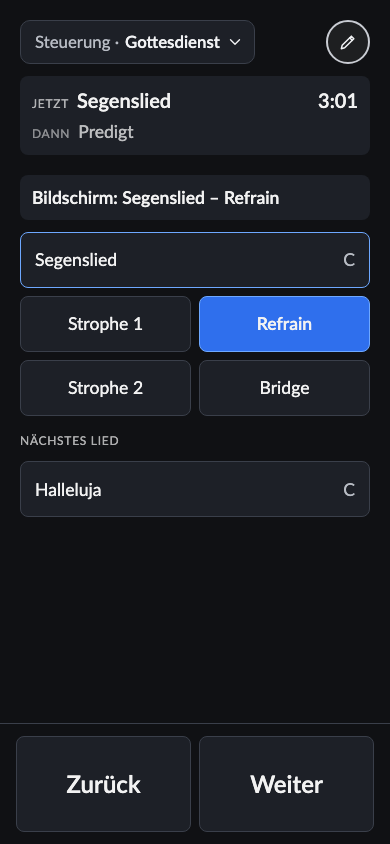
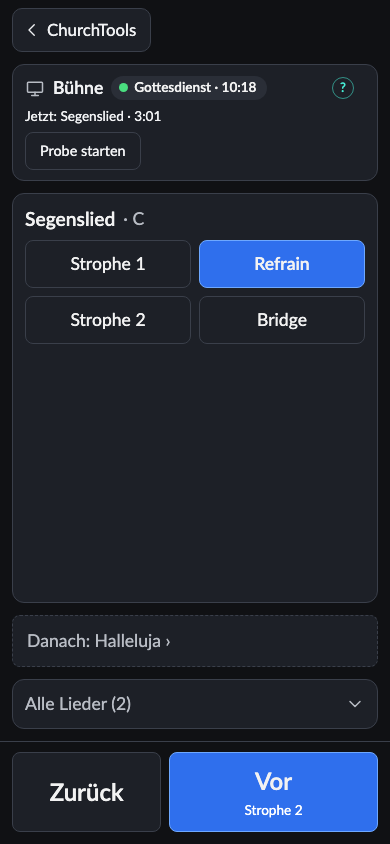
Handyseite: Aufräumen – Doku, Bild der Anleitung, ungenutzter Text (Punkt 135 E)

diff --git a/e2e/docs-screenshots.spec.ts b/e2e/docs-screenshots.spec.ts
@@ -671,7 +671,7 @@ test.describe('on a phone', () => {
         await shoot(page, 'handy');
     });
 
-    // The phone page of the musicians (Plan.md 121 E2): a made-up service with two songs, the running point a song, one part tapped.
+    // The phone page of the musicians (Plan.md 121 E2, 135): a made-up service with two songs at a released screen, the running point a song, one part tapped.
     test('the control page of the musicians', async ({ page, baseURL }) => {
         origin = new URL(baseURL!).origin;
         await fakeChurch(page);
@@ -714,8 +714,25 @@ test.describe('on a phone', () => {
         await page.route(/\?q=churchservice/, (route) =>
             route.fulfill({ json: { status: 'success', data: { pos_id: '2', switchdate: at(-2), addseconds: '0', currentTime: DOC_NOW.getTime() } } }),
         );
+        // A screen released for rehearsals that shows the songsheet of this service (Plan.md 135): the monitor card at the top.
+        await page.goto('./'); // seeds the demo store
+        await page.evaluate((now) => {
+            const key = 'infoscreen-designer.demo-store';
+            const state = JSON.parse(localStorage.getItem(key)!) as { nextId: number; categories: { id: number; shorty: string; name: string }[]; values: [number, { id: number; value: string }[]][] };
+            const list = (shorty: string, name: string): { id: number; value: string }[] => {
+                let category = state.categories.find((c) => c.shorty === shorty);
+                if (!category) state.categories.push((category = { id: state.nextId++, shorty, name }));
+                let entry = state.values.find(([id]) => id === category!.id);
+                if (!entry) state.values.push((entry = [category.id, []]));
+                return entry[1];
+            };
+            const add = (target: { id: number; value: string }[], doc: unknown) => target.push({ id: state.nextId++, value: JSON.stringify(doc) });
+            add(list('steuerung', 'Steuerung'), { kind: 'rehearsalCatalog', screens: [{ id: 's1', name: 'Bühne' }], playlists: [{ id: 'p1', name: 'Probe' }], clickScreens: [], at: now });
+            add(list('status', 'Status'), { kind: 'position', screenId: 's1', playlistId: 'p2', playlistName: 'Gottesdienst', advance: 'time', songsheet: { source: 'agenda', eventId: 7 }, seq: 0, at: now });
+            localStorage.setItem(key, JSON.stringify(state));
+        }, DOC_NOW.toISOString());
         await page.goto('steuerung');
-        await expect(page.getByTestId('control-plan')).toContainText('Segenslied');
+        await expect(page.getByTestId('monitor-chip')).toContainText('Gottesdienst');
         const current = page.getByTestId('control-current');
         await current.getByRole('button', { name: 'Refrain' }).click();
         await expect(current.locator('.part.active')).toHaveText('Refrain');

diff --git a/src/i18n/designer.ts b/src/i18n/designer.ts
@@ -1686,7 +1686,6 @@ Damit er im Wiki nicht stört, lässt er sich in den Einstellungen des Designers
         rehearsalLoading: 'Lied wird geladen …',
         chooseSong: 'Lied wählen',
         endSong: 'Lied beenden',
-        screenNoRelease: 'Für Proben ist noch kein Bildschirm freigegeben. Ein Administrator gibt ihn in der Einrichtung unter „Musiker“ frei.',
         screenNoPlaylist: 'Für Proben ist noch keine Probenpräsentation freigegeben. Ein Administrator gibt sie in der Einrichtung unter „Musiker“ frei.',
         screenChoose: 'Bildschirm wählen',
         playlistChoose: 'Präsentation wählen',

diff --git a/Plan.md b/Plan.md
@@ -29,7 +29,7 @@ Ein ChurchTools Custom Module (CCM), mit dem angemeldete ChurchTools-Anwender In
 13. **Bedienelement „Angaben“, Rest** (Archiv Punkt 128, #296) – veröffentlicht mit `v0.66.0`, Issue geschlossen. Offen: Termine und Ablauf als zweiter Schritt, wenn sich das Bedienelement bewährt.
 14. **Inspektor: Trenner und angeheftete Abschnitte** (Punkt 133, #407) – Anregung von Bernhard; Variante gewählt am 2026-11-26: Trenner zwischen den Ebenen, „Folie“ bis „Präsentation“ eingeklappt am unteren Rand angeheftet, am Handy nicht. Bauplan offen.
 15. **Ladeanzeige beim Setzen der Rechte** (Punkt 134) – gebaut am 2026-11-26, kommt mit dem nächsten Release.
-16. **Handyseite vom Monitor aus** (Punkt 135) – Rückmeldung beim Test am 2026-11-26; Richtung entschieden, Bauplan A–E steht. **Vorgezogen: kommt vor dem Release der Klicksteuerung.**
+16. **Handyseite vom Monitor aus** (Punkt 135) – Rückmeldung beim Test am 2026-11-26; Richtung entschieden, **A bis E gebaut am 2026-11-27** (unveröffentlicht; zwei Handytests eingearbeitet). Kommt mit dem Release der Klicksteuerung (Punkt 124) und der Ladeanzeige (Punkt 134); vorher am Handy die Wartemeldung und das Such-Blatt mit Tastatur prüfen, am Android-Gerät, dass nichts von ChurchTools über der Seite liegt.
 
 **Kleine Reste, kein Auftrag, bis jemand sie wählt** *(durchgesehen mit dem Nutzer am 2026-10-10: später; „Rechte aktualisieren“ echt ausprobiert, ohne Auffälligkeiten)*:
 
@@ -585,7 +585,7 @@ Hier stehen nur Punkte, die noch nicht veröffentlicht sind, mit vollem Text. Di
       - **D – Probe als Aktion** (**gebaut am 2026-11-27**, unveröffentlicht. Festgelegt: **Laufende Probe in der Karte:** Chip „Probe bis 10:52“, „gestartet von <Name>“, der Satz „Ein Gottesdienst laut Zeitplan beendet die Probe.“ und die Knöpfe „+1 Std“, „+2 Std“, „Beenden“; kein zweiter Kasten, `ControlScreen` fällt weg, die Karte liest die Probe aus dem Stand des Monitors, nicht mehr aus den Überschreibungen. **„+n Std“ schiebt das Ende, das dasteht, um n Stunden** (liegt es in der Vergangenheit: ab jetzt), gekappt auf 4 Stunden ab jetzt (Punkt 125); geschrieben wird `at` = jetzt. **Der eigene Schreibvorgang gilt über dem Stand des Monitors,** bis dieser ihn meldet (Ende mindestens so spät) oder eine Minute um ist – der Player liest nur alle 20 Sekunden (`shownRehearsal`, `src/views/rehearsal-override.ts`, Schreiben in `useRehearsalControl`). **„Probe starten“** (nur freigegebene Monitore, ohne laufende Probe) öffnet das Blatt `ControlRehearsalSheet` über dem gemeinsamen `ControlSheet` (`role="dialog"`, `aria-modal`, „Abbrechen“, Tipp daneben, Escape; liegt fest über der Seite wie sie selbst, `z-index` 2100, ohne `Teleport`): Überschrift „Probe auf „<Monitor>““, Präsentation (bei einer schon gewählt), Dauer 1/2/3 Std. (2 vorgewählt), „Probe starten“; bei Fehler bleibt das Blatt offen. **Liedwahl in der Probe:** Liedkarte mit Titel und Tonart (1,2 rem, 600), rechts „Lied wählen“ (Lupe), Arrangements als Chips nur bei mehreren, „Lied beenden“ als kleiner Textknopf; die Suche ist ein Blatt `ControlSheet`; ein Fund schließt es. **Befund (3) mit gebaut:** Zeigt der Stand eine laufende Probe, aber weder ein Liedblatt der Probe noch eines des Gottesdienstes, sagt die Mitte „Der Bildschirm zeigt kein Probenblatt.“ (`rehearsalWithoutSheet`, aus dem gemeldeten Stand, nicht aus dem eigenen Schreibvorgang). **Befund (1) mit gebaut:** Öffnet ein Administrator „Musiker“, schreibt die Seite die Liste in `steuerung` neu, wenn Namen oder die Menge der Bildschirme und Präsentationen nicht mehr stimmen (`catalogOutdated`, `src/setup/rehearsal-catalog.ts`; einmal je Besuch, nur dann; Vergleich mit dem gelesenen Katalog, Grundlage ist die gespeicherte Freigabe, nicht der Entwurf); eine freigegebene Präsentation ohne Probenblatt bekommt die Warnung „„Ablauf“ ist freigegeben, hat aber kein Probenblatt.“ und fällt aus der Liste (neu: `listPlaylistsBySheet`). Tests: Komponententests für Blatt, Karte (keine doppelten Zeilen, kein „Schwarz“ beim Lied, Teile sichtbar), reine Funktionen; kein e2e mit Probe, der Demo-Speicher hat keinen Katalog – `e2e/mode-switch.spec.ts` prüft weiter, dass die Seite in drei Größen nichts scrollt. Offen: am Handy prüfen, dass im Zustand „Probe läuft“ auch bei 375 × 667 alles ohne Scrollen passt – die Rechnung geht auf, gemessen ist es nicht.): Blatt „Probe starten“, „+1/+2 Std“ und „Beenden“ in der Karte, „Lied wählen“/„Arrangement“ als Blatt.
       - **Zweiter Handytest (Nutzer, 2026-11-27, iPhone 390 × 844, „Probe läuft“, Lied mit vier Teilen) – „Wir sind noch nicht ganz am Ziel“; umgesetzt am selben Tag, unveröffentlicht.** Befunde: (1) Die Teile waren abgeschnitten – die Liedkarte zeigte etwa anderthalb Reihen, der Rest rollte in einem kleinen Fenster; (2) die Monitor-Karte war fast die halbe Höhe; (3) der Liedkopf verschenkte Platz (Titel links, Tonart weit rechts, großer Knopf „Lupe + Lied wählen“); (4) „Letzter Teil …“ und „Lied beenden“ standen außerhalb der Karte und kosteten zwei Zeilen; (5) das ausgegraute „Vor“ blieb dunkelblau und wirkte halb aktiv. **Geändert – die Gewichte sind umgedreht, das Lied bekommt den Platz:** Die **Monitor-Karte** ist einzeilig (Name 1,1 rem links, der Chip dahinter und nie gekürzt, der Name kürzt mit Ellipse), darunter eine kleine Zeile; **Festlegung: Der Chip der Probe heißt nur „Probe“, das Ende steht in der Zeile („bis 11:23 · Tobias Nikola“)** – so steht es nicht doppelt da. Die beiden Hinweissätze sind aus der Karte: „Ein Gottesdienst laut Zeitplan beendet die Probe.“ steht im Blatt „Probe starten“; „Alle Probenmonitore/Liedblätter … folgen.“ steht hinter einem kleinen „i“ am Chip (Tipp blendet ein, zweiter Tipp aus). „+1 Std“, „+2 Std“, „Beenden“ sind flach (38 px, 0,9 rem) in einer Zeile. Der **Liedkopf** ist eine Zeile „Titel · Tonart“ mit der Lupe als Knopf 44 × 44 (`aria-label` „Lied wählen“); „Lied beenden“ steht als Textknopf unten im Such-Blatt; „Letzter Teil – anderes Lied über die Lupe.“ (im Gottesdienst „… nächstes Lied über „Danach“.“) steht klein **in** der Liedkarte unter den Teilen. **Die Liedkarte füllt den Rest der Mitte** (Spalte, Karte `flex: 1`, Teile-Liste darin `flex: 1; min-height: 0; overflow: auto`), ebenso die Liedkarte im Gottesdienst und die Folienliste; Teile- und Folienknöpfe 48 px statt 56. In der Leiste sind **deaktivierte Knöpfe grau** (Hintergrund wie die anderen, Text gedämpft), auch „Vor“. **Gemessen** (`e2e/control-phone.spec.ts`, Demo-Speicher mit Katalog, Probe und Lied, Song und Datei per `page.route`; Chromium und WebKit): Monitor-Karte 120 px, Leiste 103 px; Liedkarte 533 px auf 390 × 844 und 356 px auf 375 × 667; **acht Teile passen ohne Rollen** (390 × 844: 252 px Luft in der Karte, 375 × 667: 75 px), die Seite scrollt nicht, die Leiste liegt ganz im Fenster.
       - **Rückmeldung nach dem Tippen (Nutzer, 2026-11-27): „Nach dem Starten der Probe passiert am Handy erstmal nichts. Genauso beim Beenden“ – der Fernseher liest die Werte alle 20 s, bis er sich meldet, vergeht bis zu eine halbe Minute.** Geändert: Während das Schreiben läuft, steht „Wird gespeichert …“ (auf dem Startknopf im Blatt und in der Karte); danach steht in der Karte mit drehendem Ring, was der Bildschirm gleich tut – „Wechselt zur Probe …“, „Übernimmt die Zeit …“, „Zurück zum Zeitplan …“ –, bis er es meldet (`transferState` in `rehearsal-override.ts`); **Festlegung (Nutzer): kurz und ohne Zeitangabe, der Ring mit dem Hinweis reicht.** Meldet er sich eine Minute nicht: „Reagiert nicht – ist er an?“. Der Takt des Fernsehers bleibt (G16). Am selben Tag: Das „i“ am Chip ist jetzt das „?“ der Hilfe im Inspektor (`HelpButton`, türkis, rechtsbündig, gefüllt solange der Satz steht); vor dem Namen des Bildschirms steht ein TV-Symbol; das Such-Blatt folgt mit offener Tastatur dem sichtbaren Teil des Fensters (`visualViewport`) und sitzt auf der Tastatur, und hinter der Seite ist es dunkel statt weiß.
-      - **E – Aufräumen:** alte Texte und Wege entfernen, Doku (Funktionen, Einrichtung) und Bilder der Anleitung, e2e der Handyseite.
+      - **E – Aufräumen** (**gebaut am 2026-11-27**, unveröffentlicht): Der ungenutzte Text `screenNoRelease` ist entfernt; tote Dateien gab es keine (die alten Bereiche fielen mit C und D weg, die Unit-Tests prüfen, dass `control-area` und `control-screen` nicht mehr erscheinen). Doku: Funktionen nennt TV-Symbol, das „?“ und den Hinweis, solange der Bildschirm wechselt; „Beenden“ schaltet nicht mehr „sofort“ zurück, sondern beim nächsten Nachfragen des Bildschirms. Einrichtung: zurück in den Designer über „ChurchTools“ statt „Designer“, „Lied wählen“ über die Lupe, „Lied beenden“ im Such-Blatt. Das Bild `steuerung.png` zeigt die neue Seite: Monitor-Karte „Bühne“ mit dem Chip „Gottesdienst“, Liedkarte, „Danach“, „Alle Lieder“, Leiste (`e2e/docs-screenshots.spec.ts` legt dafür Liste und Stand in den Demo-Speicher). Die e2e der Handyseite stehen seit A und dem zweiten Handytest (`mode-switch`, `control-phone`).
 
 ### Verzeichnis der erledigten Punkte
 

diff --git a/docs/Funktionen.md b/docs/Funktionen.md
@@ -262,15 +262,17 @@ auf der Einstellungsseite „Musiker“ für die Klicksteuerung freigegeben sind
 
 **Vom Handy weiterschalten.** Die Handyseite „Steuerung“ nimmt den ganzen Bildschirm ein, auch über der Leiste von ChurchTools; „ChurchTools“ oben links führt zurück – in den Designer, wenn man von dort kam, sonst zur vorigen Seite von ChurchTools. Nichts muss gescrollt werden: Nur eine lange Liste von Teilen oder Folien rollt in ihrer Karte, die laufende bleibt sichtbar.
 
-Die Seite geht vom **Monitor** aus, nicht von einem Bereich. Ganz oben steht die **Monitor-Karte**, flach gehalten, damit das Lied den Platz bekommt: in einer Zeile der Name des Bildschirms und dahinter ein **Chip**, was gerade läuft, bei mehreren rechts **„Wechseln“** (die Seite merkt sich den letzten); darunter eine kleine Zeile. Wo es einen Satz dazu gibt, wer dem Lied folgt, steht am Chip ein kleines **„i“** – ein Tipp blendet den Satz ein, ein zweiter blendet ihn wieder aus:
+Die Seite geht vom **Monitor** aus, nicht von einem Bereich. Ganz oben steht die **Monitor-Karte**, flach gehalten, damit das Lied den Platz bekommt: in einer Zeile ein TV-Symbol, der Name des Bildschirms und dahinter ein **Chip**, was gerade läuft, bei mehreren rechts **„Wechseln“** (die Seite merkt sich den letzten); darunter eine kleine Zeile. Wo es einen Satz dazu gibt, wer dem Lied folgt, steht rechts in der Zeile das türkise **„?“** wie bei der Hilfe im Editor – ein Tipp blendet den Satz ein, ein zweiter blendet ihn wieder aus:
 
-- grün **„Gottesdienst · 10:30“** – der Bildschirm zeigt ein Liedblatt mit der Quelle „Ablauf“; darunter „Jetzt: Predigt · 3:12“, das „i“ sagt, dass alle Liedblätter dieses Gottesdienstes folgen;
-- gelb **„Probe“** – die Musiker haben den Bildschirm für eine Probe übernommen, darunter „bis 19:11 · Anna“ (Ende und Name, nicht doppelt im Chip); das „i“ sagt, dass alle Probenmonitore dem Lied folgen;
+- grün **„Gottesdienst · 10:30“** – der Bildschirm zeigt ein Liedblatt mit der Quelle „Ablauf“; darunter „Jetzt: Predigt · 3:12“, das „?“ sagt, dass alle Liedblätter dieses Gottesdienstes folgen;
+- gelb **„Probe“** – die Musiker haben den Bildschirm für eine Probe übernommen, darunter „bis 19:11 · Anna“ (Ende und Name, nicht doppelt im Chip); das „?“ sagt, dass alle Probenmonitore dem Lied folgen;
 - lila **„Präsentation · Name“** – eine Präsentation per Klick; darunter „Folie 2 von 5 · Lieder“ und „zuletzt Anna, vor 5 s“;
 - grau **„Zeitplan · Name“** – der Bildschirm läuft nach Zeit, es gibt nichts zu schalten.
 
 Meldet sich der Bildschirm nicht, steht das da („ist er an?“). 
-**Proben starten und beenden.** Wo der Bildschirm für Proben freigegeben ist, bietet die Karte **„Probe starten“** an. Der Knopf öffnet ein **Blatt von unten**: „Probe auf „Bühne““, die Präsentation (nur freigegebene mit Probenblatt; gibt es nur eine, ist sie schon gewählt), die Dauer 1, 2 oder 3 Stunden (vorgewählt sind 2) dazu der Satz „Ein Gottesdienst laut Zeitplan beendet die Probe.“ (man liest ihn vor dem Start, nicht mehr in der Karte) und der große Knopf „Probe starten“; „Abbrechen“, ein Tipp neben das Blatt und die Esc-Taste schließen es. Danach zeigt die Karte die Probe: der Chip „Probe“, darunter „bis 10:52 · Anna“ und drei flache, kleine Knöpfe in einer Zeile – **„+1 Std“** und **„+2 Std“** schieben das Ende um diese Zeit weiter (höchstens vier Stunden ab jetzt), **„Beenden“** schaltet den Bildschirm sofort auf den Zeitplan zurück. Beginnt vorher ein Gottesdienst laut Zeitplan, endet die Probe von selbst.
+**Proben starten und beenden.** Wo der Bildschirm für Proben freigegeben ist, bietet die Karte **„Probe starten“** an. Der Knopf öffnet ein **Blatt von unten**: „Probe auf „Bühne““, die Präsentation (nur freigegebene mit Probenblatt; gibt es nur eine, ist sie schon gewählt), die Dauer 1, 2 oder 3 Stunden (vorgewählt sind 2) dazu der Satz „Ein Gottesdienst laut Zeitplan beendet die Probe.“ (man liest ihn vor dem Start, nicht mehr in der Karte) und der große Knopf „Probe starten“; „Abbrechen“, ein Tipp neben das Blatt und die Esc-Taste schließen es. Danach zeigt die Karte die Probe: der Chip „Probe“, darunter „bis 10:52 · Anna“ und drei flache, kleine Knöpfe in einer Zeile – **„+1 Std“** und **„+2 Std“** schieben das Ende um diese Zeit weiter (höchstens vier Stunden ab jetzt), **„Beenden“** schaltet den Bildschirm auf den Zeitplan zurück. Beginnt vorher ein Gottesdienst laut Zeitplan, endet die Probe von selbst.
+
+Der Bildschirm fragt nur alle paar Sekunden nach, ob sich etwas geändert hat; bis er Start, neue Zeit oder Ende übernommen hat, dreht sich in der Karte ein Ring mit einem kurzen Hinweis („Wechselt zur Probe …“, „Übernimmt die Zeit …“, „Zurück zum Zeitplan …“). Meldet er sich eine Minute lang nicht, steht dort „Reagiert nicht – ist er an?“.
 
 
 Die **Mitte** richtet sich nach dem Stand – nie zwei Dinge zugleich: bei einem Liedblatt die **Liedkarte** mit den Teilen als Raster (der laufende blau), darunter „Danach: nächstes Lied ›“ (ein Tipp wählt dessen ersten Teil) und die ausklappbare Liste **„Alle Lieder“**; in der Probe stattdessen die **Liedkarte** mit „Titel · Tonart“ in einer Zeile, rechts der **Lupe** (sie öffnet die Suche als Blatt von unten; dort steht unten auch **„Lied beenden“** als Textknopf) und, wo es mehrere gibt, den Arrangements als kleinen Knöpfen unter dem Titel. Die Liedkarte füllt den Rest der Mitte: bis zu acht Teile stehen auch auf einem kleinen Handy ohne Rollen, darunter in der Karte die kleine Zeile „Letzter Teil – …“, wenn man am Ende ist. Zeigt der Bildschirm trotz laufender Probe kein Probenblatt, sagt die Mitte „Der Bildschirm zeigt kein Probenblatt.“; bei einer Präsentation per Klick die **Folienliste**; läuft der Bildschirm nach Zeit, bleibt die Mitte leer. Der Liedteil gilt wie bisher je Gottesdienst bzw. für alle Probenmonitore – alle Liedblätter folgen. Ist kein Bildschirm freigegeben, zeigt die Seite nur die Gottesdienst-Ansicht ohne Karte (Termin, Liedkarte, „Danach“).

diff --git a/docs/Einrichtung.md b/docs/Einrichtung.md
@@ -271,9 +271,9 @@ So richtest du es ein:
    „Einstellungen" ein Punkt, ist das noch zu tun.
 5. Die Seite zeigt die **Adresse der Handyseite** zum Kopieren (`…/ccm/infoscreen-designer/steuerung`). Die Musiker öffnen sie auf dem
    Handy, angemeldet in ChurchTools – oder tippen im Menü auf „Infoscreen Designer" und landen direkt dort. Wer auch in der
-   Designer-Gruppe ist, landet im Designer und wechselt mit dem Menüpunkt **„Steuerung"** unten in der Seitenleiste zur Handyseite und dort mit **„Designer"** zurück. Die Handyseite zeigt oben eine **Monitor-Karte** (siehe [Funktionen](Funktionen.md#präsentationen)); ohne freigegebenen Bildschirm führt sie den Gottesdienst nach Ablauf.
+   Designer-Gruppe ist, landet im Designer und wechselt mit dem Menüpunkt **„Steuerung"** unten in der Seitenleiste zur Handyseite und dort mit **„ChurchTools"** oben links zurück in den Designer. Die Handyseite zeigt oben eine **Monitor-Karte** (siehe [Funktionen](Funktionen.md#präsentationen)); ohne freigegebenen Bildschirm führt sie den Gottesdienst nach Ablauf.
 
-   <img src="bilder/steuerung.png" alt="Handyseite „Steuerung“: oben „Jetzt“ und „Dann“, darunter das laufende Lied mit den Teil-Knöpfen, der Teil „Refrain“ ist angetippt" width="320">
+   <img src="bilder/steuerung.png" alt="Handyseite „Steuerung“: oben die Monitor-Karte „Bühne“ mit dem Chip „Gottesdienst“, darunter das laufende Lied mit den Teil-Knöpfen, der Teil „Refrain“ ist angetippt, unten „Zurück“ und „Vor“" width="320">
 
 **Proben vom Handy freigeben.** Auf derselben Seite „Musiker" wählst du unter **„Bildschirme für Proben"** die Bildschirme, die die Musiker
 für eine Probe überschreiben dürfen, und unter **„Präsentationen für Proben"** die Präsentationen, die sie dafür wählen dürfen. Zur Wahl
@@ -289,8 +289,8 @@ wird sie umgebaut), bleibt er bei seinem Zeitplan, und die Kachel in der Übersi
 
 Auf der Handyseite tippen die Musiker auf der Monitor-Karte auf **„Probe starten"**; in dem Blatt, das von unten aufgeht, wählen sie eine
 freigegebene Präsentation und die Dauer (1 bis 3 Stunden) und starten die Probe. Läuft sie, zeigt die Karte „Probe“ mit „bis …“ und dem Namen;
-mit **„+1 Std"** und **„+2 Std"** verlängern sie (höchstens vier Stunden ab jetzt), mit **„Beenden"** zeigt der Bildschirm sofort wieder, was
-der Zeitplan vorsieht. Das tut er auch, wenn die Dauer abläuft. Beginnt vorher eine Terminregel des Zeitplans, endet die Probe von selbst – der Gottesdienst gewinnt.
+mit **„+1 Std"** und **„+2 Std"** verlängern sie (höchstens vier Stunden ab jetzt), mit **„Beenden"** zeigt der Bildschirm wieder, was
+der Zeitplan vorsieht – nach wenigen Sekunden, bis dahin sagt die Karte, dass er wechselt. Das tut er auch, wenn die Dauer abläuft. Beginnt vorher eine Terminregel des Zeitplans, endet die Probe von selbst – der Gottesdienst gewinnt.
 Im Designer zeigt die Kachel des Bildschirms die laufende Probe mit Präsentation, Endzeit und Namen, nach demselben Maßstab wie der
 Fernseher; das Handy sieht nicht, ob ein Gottesdienst die Probe schon beendet hat, die Kachel schon.
 
@@ -328,9 +328,9 @@ Der **Zeitplan** schaltet zwischen den Präsentationen um: Die Gottesdienst-Prä
 kommt per Regel dazu – zum Beispiel eine **Terminregel** auf einen eigenen Kalender „Bandproben" (dann reicht es, die Proben dort
 einzutragen) oder eine **Zeitregel** wie „donnerstags 19 bis 22 Uhr".
 
-Auf der Handyseite wählen die Musiker, wenn ein Probenblatt läuft, mit **„Lied wählen"** (die Suche geht als Blatt von unten auf) das Lied, das Arrangement und tippen die Teile. Bevor jemand ein Lied
+Auf der Handyseite wählen die Musiker, wenn ein Probenblatt läuft, mit der **Lupe** („Lied wählen", die Suche geht als Blatt von unten auf) das Lied, das Arrangement und tippen die Teile. Bevor jemand ein Lied
 gewählt hat, zeigt der Bildschirm **„Kein Lied gewählt"** mit einem **QR-Code**: Scannen öffnet die Handyseite. Die Wahl gilt für alle
-Probenbildschirme; Handy und Bildschirm zeigen dasselbe Lied. **„Lied beenden"** unter den Teilen nimmt es von allen
+Probenbildschirme; Handy und Bildschirm zeigen dasselbe Lied. **„Lied beenden"** unten im Such-Blatt nimmt es von allen
 Bildschirmen, dann steht dort wieder der QR-Code. Von selbst endet die Wahl nach zwölf Stunden, damit zur nächsten Probe nicht das
 Lied von letzter Woche dasteht.
 Die Rechte sind dieselben wie im Gottesdienst.
